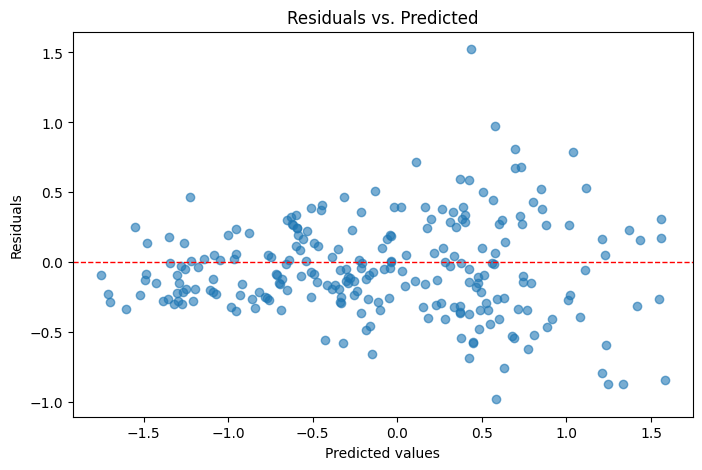
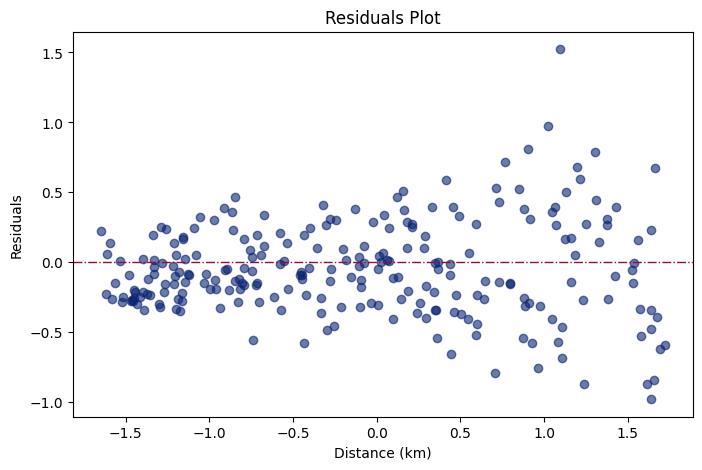
Final error insights report and add couple of plots

diff --git a/error_insights.md b/error_insights.md
@@ -1,0 +1,29 @@
+# Error Insights
+
+## 1. Linear Regression
+By examining the residuals plot, it is possible to notice a slightly funnel-shaped pattern for distances greater than 0.5, suggesting a very low extent of heteroscedasticity. This means that for high delivery times, the model introduces bias, and residuals or errors get a higher magnitude. A possible solution could be to transform the variables, e.g., $log(var)$. 
+
+Another tool for assessing the limitations of linear regression is to plot a Q-Q plot, which compares the quantiles of the residuals against the quantiles of a perfect normal distribution. Between -1 and 1, most of the residuals fall on the line, meaning that errors follow a Gaussian distribution, approximately. Nevertheless, the tails exhibit deviations. They seem slightly off the line. In general, this means that for extreme delivery times (both low and high), the model falls short in making accurate predictions. 
+
+<img 
+    src="figures/residuals_plot.png" 
+    alt="Final residuals plot" 
+    width="40%" 
+/>
+<img 
+    src="figures/q-q.png" 
+    alt="Q-Q plot" 
+    width="43%" 
+/>
+
+## 2. Random Forest and XGBoost
+If the data set had more noise and fewer observations, Random Forest would fail, as it would partition the noise, and averaging may not sufficiently smooth it out, leading to poor generalization. In addition, if more outliers were introduced to the set, the algorithm would map to the nearest seen leaf, yielding flat, biased predictions. Another significant effect in Random Forest and XGBoost is the Handling of Sparse Data. The performance of the tree ensembles would be degraded since the splits might become less meaningful given the high proportion of zeros.
+When the underlying relationship between the predictors and outcome variable is simple and linear, Random Forest tends to show slightly worse performance, which is observed in this problem. Linear Regression metrics performed better than those of Random Forest and XGBoost. Even though the tree-ensemble can model linear relationships, they do so by approximating them with a series of step functions; so, using complex ensembles in this scenario was overkill.
+
+### 2.1. Mitigation Strategies
+
+| Challenge                     | RF Mitigation                        | XGBoost Mitigation                         |
+|-------------------------------|--------------------------------------|--------------------------------------------|
+| Overfitting on noise          | Limit `max_depth`, increase `min_samples_leaf` | Use `early_stopping_rounds`, regularization (`reg_alpha`/`reg_lambda`) |
+| Extrapolation                 | Feature clipping, bounded inputs     | Input transformations, domain constraints |
+| High dimensional sparsity     | Feature selection, dimensionality reduction | Column sampling (`colsample_bytree`)      |
